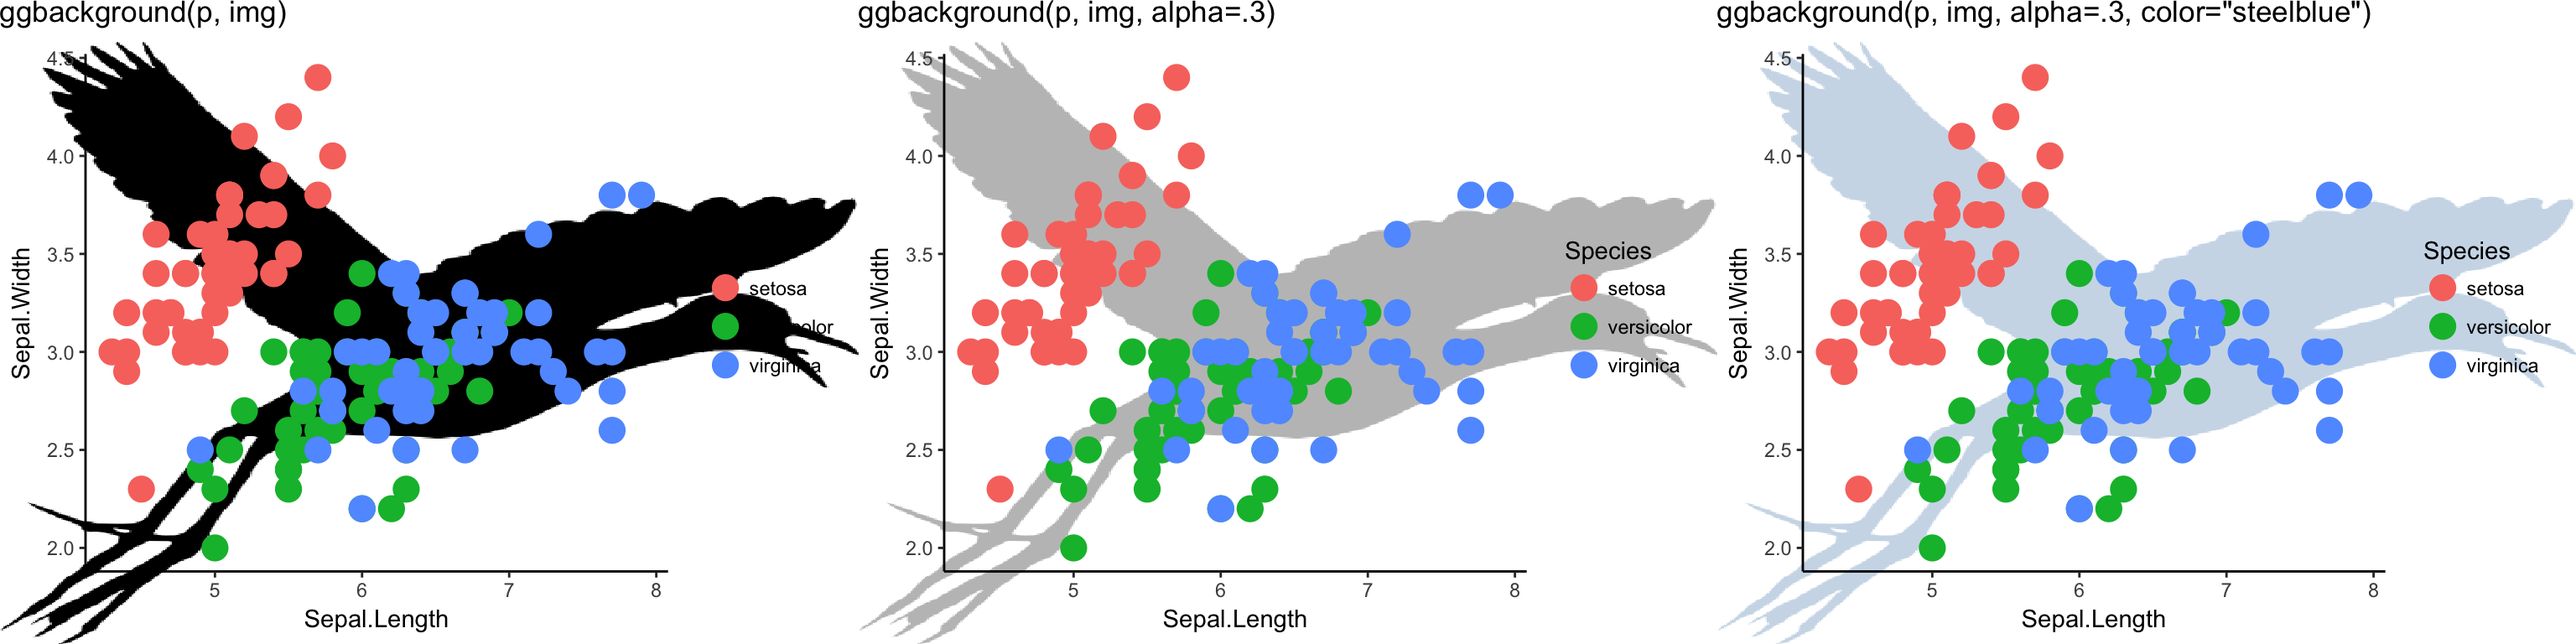
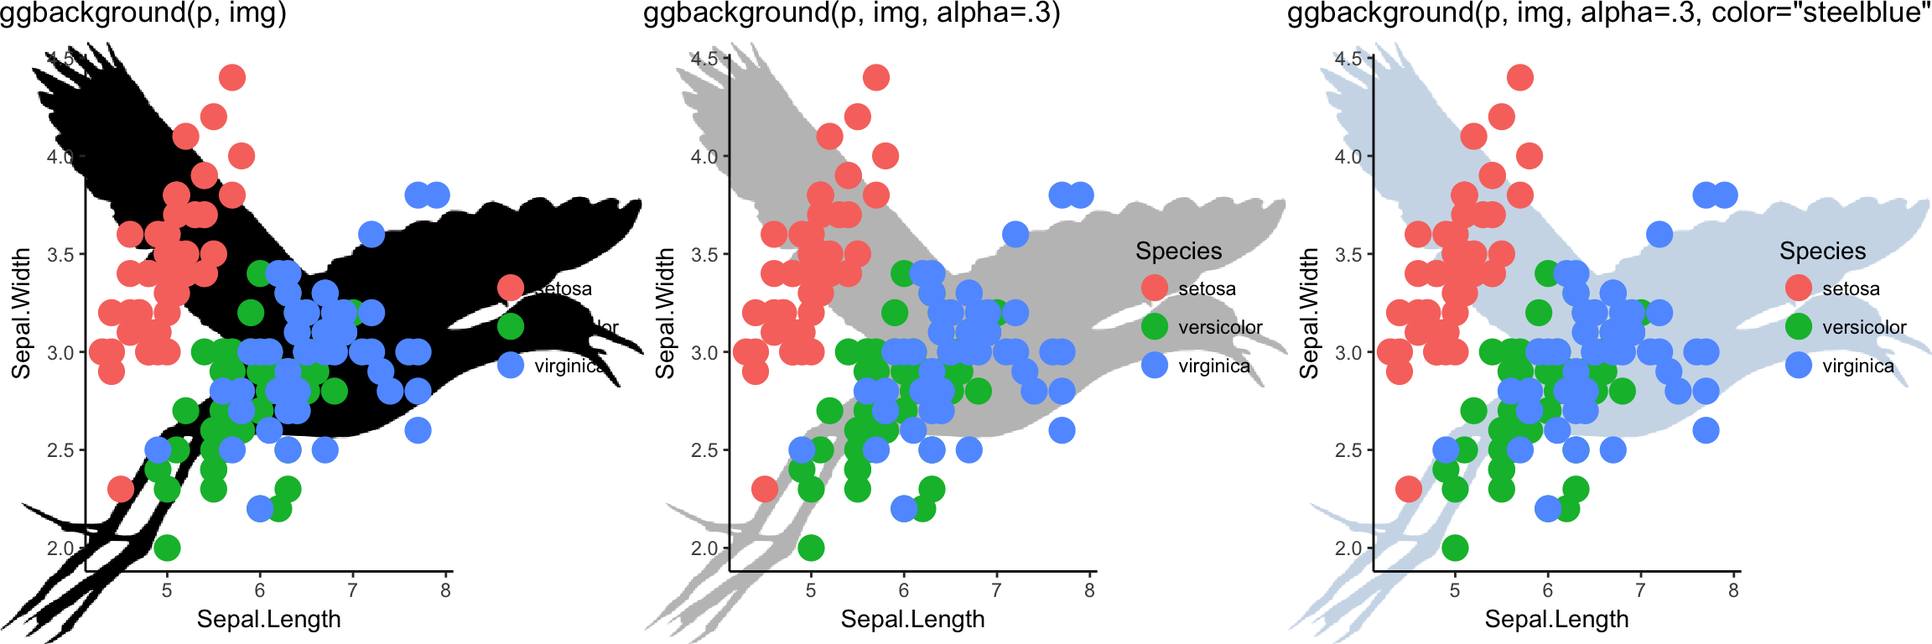
update

diff --git a/2018/04/setting-ggplot2-background-with-ggbackground/index.html b/2018/04/setting-ggplot2-background-with-ggbackground/index.html
@@ -285,7 +285,7 @@ p1 = ggbackground(p, img) + ggtitle(&quot;ggbackground(p, img)&quot;)
 p2 = ggbackground(p, img, alpha=.3) + ggtitle(&quot;ggbackground(p, img, alpha=.3)&quot;)
 p3 = ggbackground(p, img, alpha=.3, color=&quot;steelblue&quot;) + ggtitle(&#39;ggbackground(p, img, alpha=.3, color=&quot;steelblue&quot;)&#39;)
 cowplot::plot_grid(p1, p2, p3, ncol=3)</code></pre>
-<p><img src="/post/R/ggimage/ggbackground_files/figure-html/unnamed-chunk-5-1.png" width="1536" /></p>
+<p><img src="/post/R/ggimage/ggbackground_files/figure-html/unnamed-chunk-5-1.png" width="1152" /></p>
 <div id="links" class="section level2">
 <h2>Links</h2>
 <ul>
